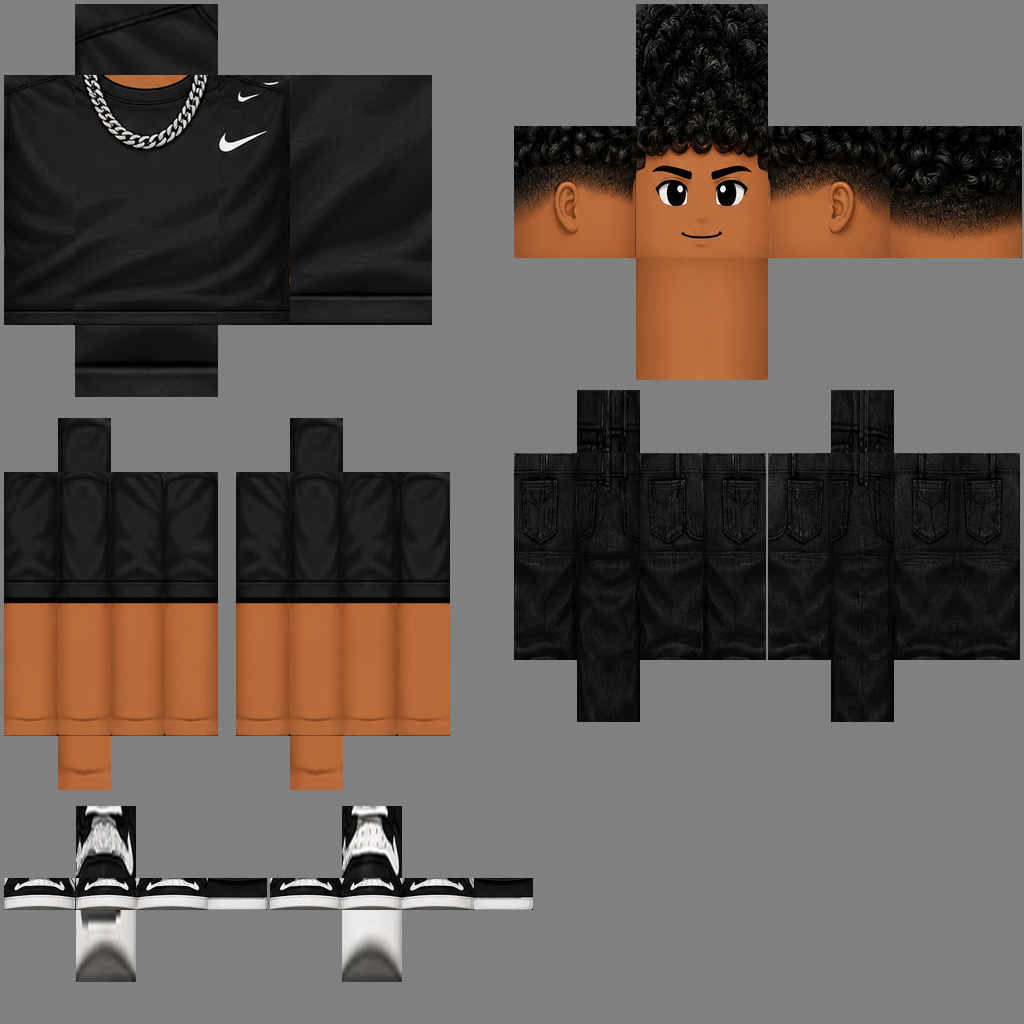
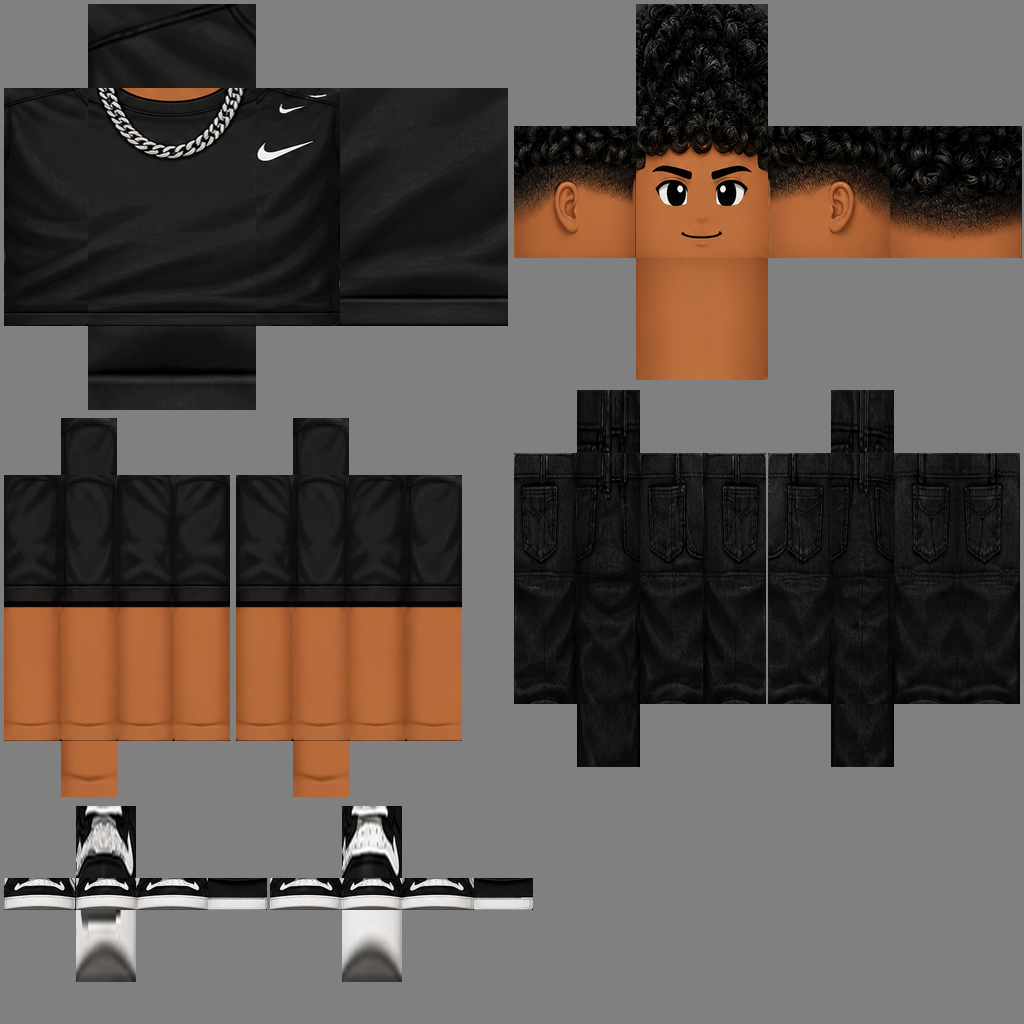
Revert "Boneco em blocos mais proporcional: tronco maior, pernas mais curtas"
This reverts commit 50a059f83e733de8c3f7aaa8fd0094e7819cd425.

diff --git a/motor/procgen/Character.cpp b/motor/procgen/Character.cpp
@@ -314,9 +314,6 @@ void wave(ClipWriter& w, const Joints& J) {
 }  // namespace
 
 
-// Boneco em blocos: onde a barriga (camisa) começa; abaixo é a cintura (calça), até o quadril (0,42H)
-constexpr float kBarriga = 0.56f;
-
 // Corpo em blocos com skin pintada: cada parte do molde é uma caixa; partes com mais de um bloco (tronco, braço,
 // perna) dividem as laterais da imagem pela altura de cada bloco. Topo e base só nos blocos das pontas; entre
 // dois blocos a tampa usa a linha da divisão (fica da cor da roupa ali quando a junta dobra).
@@ -342,7 +339,7 @@ static void buildTexturedBlockBody(const CharacterParams& p, MeshBuilder& b, flo
     };
     const float tw = (sx - 0.05f * H) * 2.f, td = 0.12f * H;
     // tronco: peito, barriga, cintura (0.84H .. 0.5H)
-    const float t0 = 0.84f * H, t1 = 0.68f * H, t2 = kBarriga * H, t3 = thighY, tl = t0 - t3;
+    const float t0 = 0.84f * H, t1 = 0.68f * H, t2 = 0.6f * H, t3 = thighY, tl = t0 - t3;
     seg(SP_Tronco, CJ_Chest, 0, 0, tw, td, t0, t1, 0.f, (t0 - t1) / tl);
     seg(SP_Tronco, CJ_Spine, 0, 0, tw, td, t1, t2, (t0 - t1) / tl, (t0 - t2) / tl);
     seg(SP_Tronco, CJ_Hips, 0, 0, tw, td, t2, t3, (t0 - t2) / tl, 1.f);
@@ -390,11 +387,11 @@ static void buildBlockBody(const CharacterParams& p, MeshBuilder& b, float H, fl
     const float tw = (sx - 0.05f * H) * 2.f, td = 0.12f * H;    // tronco: largura e profundidade
     const float waist = thighY, chestTop = 0.84f * H;
     // ---- tronco: cintura (calça), barriga e peito (camisa)
-    part(CJ_Hips, p.pants, {0, (waist + kBarriga * H) * 0.5f, 0}, {tw, kBarriga * H - waist + 0.002f * H, td});
-    part(CJ_Spine, p.shirt, {0, (kBarriga + 0.68f) * 0.5f * H, 0}, {tw, (0.68f - kBarriga) * H, td});
+    part(CJ_Hips, p.pants, {0, (waist + 0.6f * H) * 0.5f, 0}, {tw, 0.6f * H - waist + 0.002f * H, td});
+    part(CJ_Spine, p.shirt, {0, 0.64f * H, 0}, {tw, 0.08f * H, td});
     part(CJ_Chest, p.shirt, {0, (0.68f * H + chestTop) * 0.5f, 0}, {tw, chestTop - 0.68f * H, td});
     // estampas da camisa (um pouco por fora do tronco, para não piscar)
-    const float e = 0.004f * H, y0 = kBarriga * H, y1 = chestTop;
+    const float e = 0.004f * H, y0 = 0.6f * H, y1 = chestTop;
     auto faixa = [&](int joint, glm::vec4 col, float ya, float yb, float xa, float xb, bool todaVolta) {
         part(joint, col, {(xa + xb) * 0.5f, (ya + yb) * 0.5f, 0}, {xb - xa + (todaVolta ? 2.f * e : 0.f), yb - ya, td + 2.f * e});
     };
@@ -473,7 +470,7 @@ static void buildBlockBody(const CharacterParams& p, MeshBuilder& b, float H, fl
 void buildBlockVest(const CharacterParams& p, MeshBuilder& b) {
     const float H = p.height;
     const float hw = 0.125f * H, hd = 0.066f * H;            // por fora do tronco (0,12H x 0,06H)
-    const float y0 = (kBarriga + 0.01f) * H, y1 = 0.83f * H;  // da barriga até perto dos ombros
+    const float y0 = 0.6f * H, y1 = 0.83f * H;               // da barriga até perto dos ombros
     glm::vec4 cor = p.coleteCor.a > 0.f ? p.coleteCor : srgb(32, 34, 38);
     cor.a = 1.f;
     const glm::vec4 escuro(cor.r * 0.7f, cor.g * 0.7f, cor.b * 0.7f, 1.f), alca(cor.r * 0.85f, cor.g * 0.85f, cor.b * 0.85f, 1.f);
@@ -505,11 +502,10 @@ void buildCharacter(const CharacterParams& p, LoadedModel& out, MeshBuilder& b) 
     // bloco (tipo Roblox): tronco largo e quadrado, braços e pernas grossos
     const float chestHalf = p.bloco ? 0.12f * H : 0.115f * H * s, armHalf = p.bloco ? 0.05f * H : 0.034f * H * (0.9f + 0.1f * s);
     const float sx = chestHalf + armHalf + (p.bloco ? 0.f : 0.004f * H), tx = p.bloco ? 0.06f * H : 0.055f * H * s;
-    // bloco: proporção de boneco de blocos (pernas e tronco do mesmo tamanho; braço do ombro até o quadril)
-    const float shoulderY = 0.825f * H, elbowY = shoulderY - 0.175f * H, wristY = elbowY - (p.bloco ? 0.16f : 0.155f) * H;
-    const float thighY = (p.bloco ? 0.42f : 0.52f) * H, kneeY = (p.bloco ? 0.23f : 0.285f) * H, ankleY = 0.045f * H;
+    const float shoulderY = 0.825f * H, elbowY = shoulderY - (p.bloco ? 0.165f : 0.175f) * H, wristY = elbowY - (p.bloco ? 0.15f : 0.155f) * H;
+    const float thighY = (p.bloco ? 0.5f : 0.52f) * H, kneeY = (p.bloco ? 0.27f : 0.285f) * H, ankleY = 0.045f * H;
     glm::vec3 pos[CJ_Total] = {
-        {0, (p.bloco ? 0.47f : 0.53f) * H, 0}, {0, 0.62f * H, 0}, {0, 0.72f * H, 0}, {0, 0.865f * H, 0},
+        {0, 0.53f * H, 0}, {0, 0.62f * H, 0}, {0, 0.72f * H, 0}, {0, 0.865f * H, 0},
         {sx, shoulderY, 0}, {sx, elbowY, 0}, {sx, wristY, 0}, {-sx, shoulderY, 0}, {-sx, elbowY, 0}, {-sx, wristY, 0},
         {tx, thighY, 0}, {tx, kneeY, 0}, {tx, ankleY, 0}, {-tx, thighY, 0}, {-tx, kneeY, 0}, {-tx, ankleY, 0}};
     int parent[CJ_Total] = {-1, CJ_Hips, CJ_Spine, CJ_Neck, CJ_Chest, CJ_LUpper, CJ_LFore, CJ_Chest, CJ_RUpper, CJ_RFore,

diff --git a/tools/gerar_molde_personagem.py b/tools/gerar_molde_personagem.py
@@ -25,20 +25,17 @@ H = 1.75  # altura do boneco (m)
 # Partes: largura (x), altura (y), profundidade (z) em metros, escala (px por metro no molde de 1024) e canto.
 # Partes com mais de um bloco têm divisões (frações da altura, de cima para baixo) que o motor usa.
 PARTES = {
-    # tronco: do quadril (0,42H) até o ombro (0,84H): peito 0,68..0,84 · barriga 0,56..0,68 · cintura 0,42..0,56
-    'tronco':    dict(w=0.24 * H, h=0.42 * H, d=0.12 * H, s=340, o=(4, 4), nome='TRONCO',
-                      div=[('peito', 0.16 / 0.42), ('barriga', 0.28 / 0.42), ('cintura', 1.0)]),
+    'tronco':    dict(w=0.24 * H, h=0.34 * H, d=0.12 * H, s=400, o=(4, 4), nome='TRONCO',
+                      div=[('peito', 0.16 / 0.34), ('barriga', 0.24 / 0.34), ('cintura', 1.0)]),
     'cabeca':    dict(w=0.15 * H, h=0.15 * H, d=0.14 * H, s=500, o=(514, 4), nome='CABEÇA', div=[]),
-    # braço: do ombro (0,84H) até a ponta da mão (0,42H): ombro 0,84..0,65 · antebraço 0,65..0,49 · mão 0,49..0,42
-    'braco_dir': dict(w=0.085 * H, h=0.42 * H, d=0.085 * H, s=360, o=(4, 418), nome='BRAÇO DIREITO',
-                      div=[('ombro', 0.19 / 0.42), ('antebraço', 0.35 / 0.42), ('mão', 1.0)]),
-    'braco_esq': dict(w=0.085 * H, h=0.42 * H, d=0.085 * H, s=360, o=(236, 418), nome='BRAÇO ESQUERDO',
-                      div=[('ombro', 0.19 / 0.42), ('antebraço', 0.35 / 0.42), ('mão', 1.0)]),
-    # perna: do quadril (0,425H) até o tornozelo (0,05H): coxa 0,425..0,225 · canela 0,225..0,05
-    'perna_dir': dict(w=0.115 * H, h=0.375 * H, d=0.114 * H, s=315, o=(514, 390), nome='PERNA DIREITA',
-                      div=[('coxa', 0.2 / 0.375), ('canela', 1.0)]),
-    'perna_esq': dict(w=0.115 * H, h=0.375 * H, d=0.114 * H, s=315, o=(768, 390), nome='PERNA ESQUERDA',
-                      div=[('coxa', 0.2 / 0.375), ('canela', 1.0)]),
+    'braco_dir': dict(w=0.085 * H, h=0.4 * H, d=0.085 * H, s=380, o=(4, 418), nome='BRAÇO DIREITO',
+                      div=[('ombro', 0.18 / 0.4), ('antebraço', 0.33 / 0.4), ('mão', 1.0)]),
+    'braco_esq': dict(w=0.085 * H, h=0.4 * H, d=0.085 * H, s=380, o=(236, 418), nome='BRAÇO ESQUERDO',
+                      div=[('ombro', 0.18 / 0.4), ('antebraço', 0.33 / 0.4), ('mão', 1.0)]),
+    'perna_dir': dict(w=0.115 * H, h=0.455 * H, d=0.114 * H, s=315, o=(514, 390), nome='PERNA DIREITA',
+                      div=[('coxa', 0.24 / 0.455), ('canela', 1.0)]),
+    'perna_esq': dict(w=0.115 * H, h=0.455 * H, d=0.114 * H, s=315, o=(768, 390), nome='PERNA ESQUERDA',
+                      div=[('coxa', 0.24 / 0.455), ('canela', 1.0)]),
     'pe_dir':    dict(w=0.1127 * H, h=0.06 * H, d=0.138 * H, s=300, o=(4, 806), nome='PÉ DIREITO', div=[]),
     'pe_esq':    dict(w=0.1127 * H, h=0.06 * H, d=0.138 * H, s=300, o=(270, 806), nome='PÉ ESQUERDO', div=[]),
 }

diff --git a/docs/skins/COMO_FAZER_SKIN.md b/docs/skins/COMO_FAZER_SKIN.md
@@ -34,9 +34,9 @@ Cada parte é uma caixa aberta em cruz:
 | Parte | Frente / Costas (largura x altura) | Lados | Topo / Base | Divisões (de cima para baixo) |
 |---|---|---|---|---|
 | Cabeça | 131 x 131 | 122 x 131 | 131 x 123 | — |
-| Tronco | 143 x 250 | 71 x 250 | 143 x 71 | peito (38%), barriga (29%), cintura (33%) |
-| Braço (cada um) | 54 x 265 | 54 x 265 | 54 x 54 | ombro/braço (45%), antebraço (38%), mão (17%) |
-| Perna (cada uma) | 63 x 207 | 63 x 207 | 63 x 63 | coxa (53%), canela (47%) |
+| Tronco | 168 x 238 | 84 x 238 | 168 x 84 | peito (47%), barriga (24%), cintura (29%) |
+| Braço (cada um) | 57 x 266 | 57 x 266 | 57 x 57 | ombro/braço (45%), antebraço (37%), mão (18%) |
+| Perna (cada uma) | 63 x 251 | 63 x 251 | 63 x 63 | coxa (53%), canela (47%) |
 | Pé (cada um) | 59 x 32 | 72 x 32 | 59 x 72 | — |
 
 ## O que pintar em cada parte
@@ -74,8 +74,8 @@ Mande o `molde_personagem.png` junto e escreva:
 > Use the attached image as an exact UV layout template. Keep every rectangle in exactly the same position and size, on a square 1024x1024 canvas, and fill each rectangle with flat, game-ready texture art. This is a blocky low-poly game character (Roblox style) skin. Character: **[DESCREVA A ROUPA, ex.: Brazilian military police officer, light blue long-sleeve shirt, black tactical vest with white "POLÍCIA" text on chest and back, dark navy trousers, black boots, navy cap]**.
 > Each part is an unfolded box: the middle row is [RIGHT SIDE][FRONT][LEFT SIDE][BACK], with TOP above the FRONT and BOTTOM below it.
 > - HEAD: face on FRONT (simple cartoon eyes and mouth), hair or cap on TOP, SIDES and BACK.
-> - TORSO: shirt and vest. The top 38% is the chest, then 29% belly, and the bottom 33% is the waist with belt and trousers.
-> - ARMS: top 45% is the sleeve, next 38% the forearm, last 17% the hand (skin or glove).
+> - TORSO: shirt and vest. The top 47% is the chest, then 24% belly, and the bottom 29% is the waist with belt and trousers.
+> - ARMS: top 45% is the sleeve, next 37% the forearm, last 18% the hand (skin or glove).
 > - LEGS: top 53% is the thigh, bottom 47% the shin.
 > - FEET: shoes or boots.
 >
@@ -152,15 +152,15 @@ Gere cada pedaço separado, no tamanho da tabela, e cole no `molde_limpo.png` co
    > Square flat texture of the side/back of a blocky character head, [skin tone] skin with [short black hair / navy cap], no face, no shadows, fills the whole image.
 3. **Topo da cabeça (131x123)**
    > Flat top-down texture of [hair / cap / helmet], fills the whole image, no shadows.
-4. **Peito, barriga e cintura (FRENTE do tronco, 143x250)**
-   > Flat front texture of a [shirt description] for a blocky game character, top 38% chest, middle 29% belly, bottom 33% belt and [trousers]. Front orthographic view, no arms, no head, no shadows, fills the whole image.
-5. **Costas do tronco (143x250)**
-   > The same shirt seen from the back, [name/number/text on back], bottom 33% belt and trousers, flat, no shadows, fills the whole image.
-6. **Laterais do tronco (71x250)**
+4. **Peito, barriga e cintura (FRENTE do tronco, 168x238)**
+   > Flat front texture of a [shirt description] for a blocky game character, top 47% chest, middle 24% belly, bottom 29% belt and [trousers]. Front orthographic view, no arms, no head, no shadows, fills the whole image.
+5. **Costas do tronco (168x238)**
+   > The same shirt seen from the back, [name/number/text on back], bottom 29% belt and trousers, flat, no shadows, fills the whole image.
+6. **Laterais do tronco (84x238)**
    > Narrow flat side texture of the same shirt and trousers, same split heights, no shadows.
-7. **Braço (cada lado: 54x265)**
-   > Tall narrow flat texture of an arm: top 45% [sleeve], next 38% [forearm: sleeve or skin], bottom 17% [hand: skin or glove]. No shadows, fills the whole image.
-8. **Perna (cada lado: 63x207)**
+7. **Braço (cada lado: 57x266)**
+   > Tall narrow flat texture of an arm: top 45% [sleeve], next 37% [forearm: sleeve or skin], bottom 18% [hand: skin or glove]. No shadows, fills the whole image.
+8. **Perna (cada lado: 63x251)**
    > Tall narrow flat texture of a leg: top 53% [trousers/shorts], bottom 47% [trousers / bare skin / sock]. No shadows, fills the whole image.
 9. **Pé (59x32 na frente, 72x32 nos lados, 59x72 em cima)**
    > Small flat texture of a [sneaker/boot], side view, no shadows, fills the whole image.
